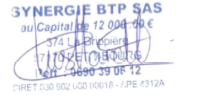
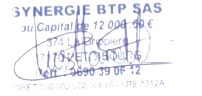
signature

diff --git a/components/SuiviChantiers.jsx b/components/SuiviChantiers.jsx
@@ -456,10 +456,13 @@ function regrouperFournisseurs(fournisseurs) {
 // texte plus compact) pour ne jamais d\u00e9border sur le texte existant.
 //   - marge gauche du texte : 15,7 pt (m\u00eame alignement que "R\u00e8glement :")
 //   - zone verticale disponible : de 193 \u00e0 243 pt du bas de page
-// La signature reste dans la marge basse de page (bande enti\u00e8rement vierge
-// sur toute la largeur, v\u00e9rifi\u00e9e pixel par pixel, de 24,9 \u00e0 93,9 pt du bas)
-// \u2014 il n'y a pas la place pour elle \u00e0 c\u00f4t\u00e9 du texte dans la zone \u00e9troite
-// ci-dessus.
+// La signature/cachet est positionn\u00e9e en bas \u00e0 droite de la page, dans la
+// marge basse (bande enti\u00e8rement vierge sur toute la largeur, v\u00e9rifi\u00e9e
+// pixel par pixel, de 24,9 \u00e0 93,9 pt du bas) \u2014 loin de la zone de texte
+// ci-dessus pour ne jamais g\u00eaner, m\u00eame quand la ligne "Frais de prorata"
+// s'affiche. Le fond blanc de l'image signature-morgane.png a \u00e9t\u00e9 rendu
+// transparent (seul le trait bleu du tampon/de la signature reste visible)
+// pour qu'elle puisse se superposer sans masquer le texte d\u00e9j\u00e0 pr\u00e9sent.
 // Si un futur document utilise une taille de page l\u00e9g\u00e8rement diff\u00e9rente,
 // tout est remis \u00e0 l'\u00e9chelle proportionnellement plut\u00f4t que cod\u00e9 en dur.
 const REF_PAGE_WIDTH = 595.32;
@@ -469,9 +472,10 @@ const REF_ZONE_TOP_Y = 243; // juste sous "R\u00e8glement : Comptant"
 const REF_ZONE_BOTTOM_Y = 193; // juste au-dessus de "CLAUSE PENALE..."
 const REF_LINE_HEIGHT_MAX = 11;
 const REF_LINE_HEIGHT_MIN = 7.5;
-const REF_SIGNATURE_X = 15.7; // marge basse de page, align\u00e9e sous le texte principal
+const REF_SIGNATURE_WIDTH = 110; // largeur cible de la signature, en pt (plus grande qu'au d\u00e9part)
+const REF_SIGNATURE_MARGIN_RIGHT = 20; // marge depuis le bord droit de la page
 const REF_SIGNATURE_Y = 30; // pt du bas de page, dans la bande vierge basse
-const REF_SIGNATURE_WIDTH = 85; // largeur cible de la signature, en pt
+const REF_SIGNATURE_X = REF_PAGE_WIDTH - REF_SIGNATURE_MARGIN_RIGHT - REF_SIGNATURE_WIDTH; // bas \u00e0 droite
 
 // Superpose (jamais une nouvelle page) sur la DERNI\u00c8RE page du PDF
 // "R\u00e9capitulatif" d\u00e9pos\u00e9 : la r\u00e9partition de r\u00e8glement par fournisseur,
@@ -524,9 +528,9 @@ async function stampRepartitionOnPdf(arrayBuffer, { situation, lignes, net }) {
     drawLine(`Net \u00e0 payer corrig\u00e9 : ${pdfSafeEUR(net)}`, { bold: true, color: navy, size: fontSize + 1 });
   }
 
-  // Signature, dans la marge basse de page (bande enti\u00e8rement vierge \u2014 voir
-  // REF_SIGNATURE_* ci-dessus). Ne bloque jamais le d\u00e9p\u00f4t du PDF si elle ne
-  // peut pas \u00eatre charg\u00e9e/int\u00e9gr\u00e9e.
+  // Signature/cachet, en bas \u00e0 droite de la page (voir REF_SIGNATURE_*
+  // ci-dessus). Ne bloque jamais le d\u00e9p\u00f4t du PDF si elle ne peut pas \u00eatre
+  // charg\u00e9e/int\u00e9gr\u00e9e.
   try {
     const sigResp = await fetch("/signature-morgane.png");
     if (sigResp.ok) {
